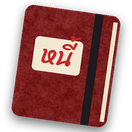
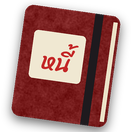
Rooms rebuild at once when a flag changes what they hold (ช่างแดง comes out as soon as the fuse is pulled); ป้าจุ๋ม shouts through the megaphone, the wedding wai with garlands, พี่หนวด's dance keeps his feet on the floor; หนี้ label no longer loses its tone mark
Claude-Session: https://claude.ai/code/session_01UHmDsbrCZjU665e7cAGfNn

Changed region(s): [[0.2121, 0.2121, 0.6667, 0.6364]]

diff --git a/tools/art/3d/char_q.py b/tools/art/3d/char_q.py
@@ -333,11 +333,17 @@ ORDER = ["pelvis", "spine_01", "spine_02", "spine_03", "neck_01", "Head",
          "thigh_l", "calf_l", "foot_l", "thigh_r", "calf_r", "foot_r"]
 FINGER_SIGN = float(os.environ.get('FSIGN', '1'))
 X, Y, Z = (1, 0, 0), (0, 1, 0), (0, 0, 1)   # model faces -Y; its left is +X
+WAI_IN = 0.45  # how far the forearms turn in for the wai (wider shoulders = more)
 RIDE_DROP = float(os.environ.get("RIDE_DROP", "-0.3"))
 ## The rider's extra animation: sitting on the bike (BoatRide).
 RIDE = (4, 8)
-## พี่หนวด dancing to the steam radio (owner: special moments get their own move).
-DANCE = (8, 8)
+## Special moments get their own move (owner 2026-10-02): extra animations per character.
+EXTRA_ANIMS = {
+    "nuad": {"dance": (8, 8)},        # พี่หนวด dancing to the steam radio
+    "jum": {"shout": (6, 8)},         # ป้าจุ๋ม waking the soi with the megaphone
+    "pa_nok": {"wai": (6, 5)},        # the wedding on the noodle boat
+    "lung_table3": {"wai": (6, 5)},
+}
 
 
 def base_pose(arm, akimbo=False, weapon=False):
@@ -397,21 +403,44 @@ def pose_frame(arm, kind, t, weapon=False, akimbo=False, hunch=False):
         rot_bone(arm, "spine_02", Z, 5 * s)
         bob = -0.022 * abs(c)
     elif kind == "dance":
-        # รำวงลูกทุ่ง: hands up turning at the wrist, hips swaying, knees bouncing
+        # รำวงลูกทุ่ง: elbows out, forearms up, wrists flicking back; the weight
+        # steps from foot to foot (one knee bends at a time), feet stay on the deck
+        ground = feet_z(arm)
         for sx, side, ph in ((1, "l", 0.0), (-1, "r", math.pi)):
             w = math.sin(2 * math.pi * t + ph)
-            aim_bone(arm, "upperarm_" + side, (sx * 0.75, -0.25, 0.35 + 0.25 * w))
-            aim_bone(arm, "lowerarm_" + side, (sx * 0.1, -0.35, 1.0))
-            aim_bone(arm, "hand_" + side, (sx * (0.6 + 0.5 * w), -0.4, 0.6))
-        rot_bone(arm, "pelvis", Y, 9 * s)
-        rot_bone(arm, "spine_02", Y, -7 * s)
-        rot_bone(arm, "Head", Y, 6 * s)
-        rot_bone(arm, "Head", X, 6)
-        knee = 14 + 10 * abs(c)
-        for side in ("l", "r"):
-            rot_bone(arm, "thigh_" + side, X, -knee * 0.6)
-            rot_bone(arm, "calf_" + side, X, knee)
-        bob = -0.03 - 0.02 * abs(c)
+            aim_bone(arm, "upperarm_" + side, (sx * 0.5, -0.3 - 0.3 * w, -0.8))
+            aim_bone(arm, "lowerarm_" + side, (sx * 0.3, -0.7 - 0.2 * w, 0.65))
+            aim_bone(arm, "hand_" + side, (sx * 0.25, 0.45, 0.85))
+        open_hands(arm)
+        rot_bone(arm, "pelvis", Y, 7 * s)
+        rot_bone(arm, "spine_02", Y, -9 * s)
+        rot_bone(arm, "spine_02", Z, 6 * s)
+        rot_bone(arm, "Head", Y, 7 * s)
+        for side, k in (("l", max(0.0, s)), ("r", max(0.0, -s))):
+            rot_bone(arm, "thigh_" + side, X, -22 * k)
+            rot_bone(arm, "calf_" + side, X, 40 * k)
+        bob = ground - feet_z(arm)
+    elif kind == "shout":
+        # ป้าจุ๋ม on top of the water tank: megaphone at her mouth, other hand on her hip,
+        # leaning back and shaking with every word
+        rot_bone(arm, "spine_02", X, 6 + 3 * abs(s))
+        rot_bone(arm, "Head", X, -8 - 4 * abs(s))
+        rot_bone(arm, "spine_03", Z, 3 * s)
+        aim_bone(arm, "upperarm_r", (-0.45, -0.6, -0.15))
+        aim_bone(arm, "lowerarm_r", (0.55, -0.35, 0.75))
+        aim_bone(arm, "hand_r", (0.4, -0.6, 0.6))
+        aim_bone(arm, "upperarm_l", (0.75, 0.2, -0.65))
+        aim_bone(arm, "lowerarm_l", (-0.55, -0.05, -0.8))
+    elif kind == "wai":
+        # the wedding: hands pressed together at the chest, bowing a little
+        b = 0.5 - 0.5 * c
+        rot_bone(arm, "spine_02", X, -4 - 6 * b)
+        rot_bone(arm, "Head", X, 6 + 6 * b)
+        for sx, side in ((1, "l"), (-1, "r")):
+            aim_bone(arm, "upperarm_" + side, (sx * 0.25, -0.3, -0.9))
+            aim_bone(arm, "lowerarm_" + side, (-sx * WAI_IN, -0.6, 0.68))
+            aim_bone(arm, "hand_" + side, (-sx * 0.05, -0.15, 1.0))
+        open_hands(arm)
     elif kind == "ride":
         # sitting astride the เรือเตอร์ไซค์: thighs forward, shins down, leaning
         # into the bars; the engine shakes the rider a little
@@ -449,6 +478,22 @@ def pose_frame(arm, kind, t, weapon=False, akimbo=False, hunch=False):
     root = arm.pose.bones["root"] if "root" in arm.pose.bones else None
     arm.location.z = bob
     return bob
+
+
+def open_hands(arm, deg=6):
+    """Flat hands (dancing, the wai) instead of base_pose's loose fists."""
+    for s_ in ("l", "r"):
+        for f in ("index", "middle", "ring", "pinky"):
+            for k in (1, 2, 3):
+                pb = arm.pose.bones["%s_0%d_%s" % (f, k, s_)]
+                pb.rotation_quaternion = Quaternion(Vector((0, 0, 1)), math.radians(FINGER_SIGN * deg))
+    bpy.context.view_layer.update()
+
+
+def feet_z(arm):
+    """Height of the lower foot (armature space), to keep feet planted."""
+    bpy.context.view_layer.update()
+    return min(arm.pose.bones[b].head.z for b in ("ball_l", "ball_r") if b in arm.pose.bones)
 
 
 def key_all(arm, frame):
@@ -504,15 +549,18 @@ NPCS = {
                         skin="#C99068", arms="short", legs="long", feet="Male_Peasant_Feet.gltf",
                         feet_tint="#3A2E26", hunch=True,
                         pal={"torso": ("#F2EEE4", 0.3, 0), "legs": ("#7A6448", 0.3, 0), "frame": ("#2A2224", 0.3, 0.4),
-                             "hanky": ("#E58FB0", 0.3, 0)}),
+                             "hanky": ("#E58FB0", 0.3, 0), "garland": ("#F4F0E6", 0.4, 0),
+                             "marigold": ("#F2A23A", 0.4, 0), "thread": ("#F8F6F0", 0.5, 0.3)}),
     "pa_nok": dict(female=True, hair=["Hair_Buns.gltf"], hair_tint="#BDB6AE", skin="#D9A57C",
                    arms="short", legs="skirt", feet="Female_Peasant_Feet.gltf", feet_tint="#2E2A30",
                    pal={"torso": ("#C0392B", 0.35, 0), "legs": ("#2E5E4E", 0.3, 0), "apron": ("#F2EEE4", 0.3, 0),
-                        "band": ("#E8B83A", 0.4, 0)}),
+                        "band": ("#E8B83A", 0.4, 0), "garland": ("#F4F0E6", 0.4, 0),
+                        "marigold": ("#F2A23A", 0.4, 0), "thread": ("#F8F6F0", 0.5, 0.3)}),
     "jum": dict(female=True, hair=["Hair_Buns.gltf"], hair_tint="#141016", skin="#E8B890",
                 arms="short", legs="skirt", feet="Female_Peasant_Feet.gltf", feet_tint="#C0392B",
                 pal={"torso": ("#F2A23A", 0.35, 0), "legs": ("#7A3A8A", 0.3, 0), "flower": ("#E8457A", 0.4, 0),
-                     "gold": ("#E2B54A", 0.6, 1.0), "phone": ("#2B2629", 0.5, 0.8), "curler": ("#7FC8E8", 0.4, 0.4)}),
+                     "gold": ("#E2B54A", 0.6, 1.0), "phone": ("#2B2629", 0.5, 0.8), "curler": ("#7FC8E8", 0.4, 0.4),
+                     "megaphone": ("#D93A2E", 0.5, 0.6), "bell": ("#F2EEE6", 0.4, 0.3)}),
     "keng": dict(female=False, hair=["Hair_SimpleParted.gltf"], hair_tint="#141016", skin="#E0AE84",
                  arms="short", legs="short", feet="Male_Peasant_Feet.gltf", feet_tint="#E8E4DC", scale=0.78,
                  pal={"torso": ("#3A6FD8", 0.4, 0), "legs": ("#2B2629", 0.3, 0), "headset": ("#1E1C22", 0.5, 0.6),
@@ -556,6 +604,16 @@ def npc_region(spec):
     return region
 
 
+def wedding_dress(B, arm, neck, hc):
+    """Thai wedding: a jasmine-and-marigold garland and the มงคลแฝด thread crown
+    (only drawn in the "wai" animation)."""
+    B.torus("Onlywai_Garland", neck + Vector((0, -0.07, -0.13)), 0.13, 0.026, "garland", "spine_03",
+            scale=(1.0, 1.3, 1.0), rot=(math.radians(-50), 0, 0), ink=0.004)
+    B.sphere("Onlywai_Tassel", neck + Vector((0, -0.17, -0.3)), 0.036, "marigold", "spine_03", ink=0.004)
+    B.torus("Onlywai_Mongkol", hc + Vector((0, 0.0, 0.05)), 0.112, 0.008, "thread", "Head",
+            scale=(1.0, 1.1, 1.0), ink=0.003)
+
+
 def npc_accessories(name, B, arm, head, top, neck, hc):
     pelvis = bone_world(arm, "pelvis")
     if NPCS[name]["legs"] == "skirt":
@@ -567,12 +625,14 @@ def npc_accessories(name, B, arm, head, top, neck, hc):
             B.box("Shade", hc + Vector((sx * 0.042, -0.122, 0.0)), (0.06, 0.012, 0.03), "shade", "Head", bevel=0.006, ink=0.003)
         B.torus("Chain", neck + Vector((0, -0.01, -0.04)), 0.075, 0.009, "gold", "spine_03", scale=(1.0, 1.0, 0.75), ink=0.0)
     elif name == "lung_table3":
+        wedding_dress(B, arm, neck, hc)
         for sx in (1, -1):
             B.torus("Glass", hc + Vector((sx * 0.042, -0.122, 0.005)), 0.026, 0.004, "frame", "Head",
                     rot=(math.radians(90), 0, 0), ink=0.0)
         B.box("Hanky", bone_world(arm, "hand_l") + Vector((0.02, -0.03, -0.06)), (0.06, 0.02, 0.09), "hanky", "hand_l", bevel=0.01)
         B.sphere("Belly", pelvis + Vector((0, -0.05, 0.2)), 0.14, "torso", "spine_01", scale=(1.0, 0.75, 0.9), ink=0.008)
     elif name == "pa_nok":
+        wedding_dress(B, arm, neck, hc)
         garment(B, BODY, "Apron", "apron", "pelvis", 0.42, 1.0, arc=140, pad=0.035, flare=0.04)
         B.torus("Band", hc + Vector((0, 0.005, 0.015)), 0.112, 0.014, "band", "Head", scale=(1.0, 1.12, 1.0), ink=0.004)
     elif name == "jum":
@@ -581,8 +641,15 @@ def npc_accessories(name, B, arm, head, top, neck, hc):
             B.cyl("Curler", hc + Vector((sx * 0.06, 0.07, 0.07)), 0.022, 0.07, "curler", "Head",
                   rot=(0, math.radians(90), 0), ink=0.004)
             B.torus("Hoop", head + Vector((sx * 0.075, 0.0, 0.06)), 0.022, 0.004, "gold", "Head", rot=(0, math.radians(90), 0), ink=0.0)
+        # พี่หนวด's debt megaphone, held at the mouth (on the head bone so it stays put)
+        mouth = hc + Vector((0, -0.12, -0.06))
+        B.cyl("Onlyshout_Mega", mouth + Vector((0, -0.12, 0)), 0.04, 0.2, "megaphone", "Head",
+              rot=(math.radians(90), 0, 0), r2=0.1, ink=0.006)
+        B.torus("Onlyshout_Bell", mouth + Vector((0, -0.22, 0)), 0.1, 0.012, "bell", "Head",
+                rot=(math.radians(90), 0, 0), ink=0.004)
+        B.cyl("Onlyshout_Grip", mouth + Vector((-0.02, -0.1, -0.08)), 0.018, 0.1, "phone", "Head", ink=0.004)
         hR = bone_world(arm, "hand_r")
-        B.box("Phone", hR + Vector((-0.06, -0.03, 0)), (0.05, 0.012, 0.1), "phone", "hand_r", bevel=0.006)
+        B.box("Notshout_Phone", hR + Vector((-0.06, -0.03, 0)), (0.05, 0.012, 0.1), "phone", "hand_r", bevel=0.006)
     elif name == "keng":
         B.torus("Headset", hc + Vector((0, 0.0, -0.005)), 0.118, 0.012, "headset", "Head", rot=(0, math.radians(90), 0),
                 scale=(1.0, 1.0, 1.15), ink=0.004)
@@ -645,6 +712,8 @@ def build(name):
             if "Boots" not in npc["feet"]:
                 trim_above(o, 0.12)
             toonify(o, npc["feet_tint"])
+        global WAI_IN
+        WAI_IN = 0.36 if npc["female"] else 0.55
         if npc.get("scale"):
             arm.scale = (npc["scale"],) * 3
             bpy.context.view_layer.update()  # accessories read bone positions
@@ -777,8 +846,7 @@ def main():
     anims = dict(ANIMS)
     if name == "rider":
         anims["ride"] = RIDE
-    if name == "nuad":
-        anims["dance"] = DANCE
+    anims.update(EXTRA_ANIMS.get(name, {}))
     only = os.environ.get("ONLY")
     if only:
         anims = {k: v for k, v in anims.items() if k in only.split(",")}
@@ -799,8 +867,15 @@ def main():
                 "BoxGaugeFace", "WHandle", "WJaw", "WHook", "WNut")
     for anim, (f0, n, fps) in ranges.items():
         for o in bpy.data.objects:
-            if o.name.split(".")[0] in off_bike:
+            base = o.name.split(".")[0]
+            if base in off_bike:
                 o.hide_render = anim == "ride"
+            elif base.startswith("Only"):
+                # "Only<anim>_..." props exist for one animation (megaphone, garland),
+                # "Not<anim>_..." ones are put away for it (the phone while shouting)
+                o.hide_render = base[4:].split("_")[0] != anim
+            elif base.startswith("Not"):
+                o.hide_render = base[3:].split("_")[0] == anim
         for d in dirs:
             arm.rotation_euler = (0, 0, yaw_for(d))
             idx = range(n) if not still else ([0] if anim in ("idle", "ride") else [0, n // 2])

diff --git a/tools/art/png/ui_2090.py b/tools/art/png/ui_2090.py
@@ -327,8 +327,9 @@ def notebook_icon(out_dir):
     # pages peeking on the right, elastic band, label
     d.rectangle((bw - 7 * SS, 6 * SS, bw - 3 * SS, bh - 6 * SS), fill=(236, 226, 200, 255))
     d.rectangle((bw - 26 * SS, 0, bw - 18 * SS, bh), fill=(30, 26, 30, 255))
-    d.rounded_rectangle((14 * SS, 30 * SS, bw - 34 * SS, 64 * SS), 4 * SS, fill=(240, 232, 210, 255))
-    text(d, ((14 + bw / SS - 34) / 2 * SS, 47 * SS), "หนี้", FONT_HAND, 26 * SS, rgba(RED_INK), "mm")
+    # tall label: Thai tone marks sit well above the letters (หนี้ lost its ้ before)
+    d.rounded_rectangle((12 * SS, 24 * SS, bw - 32 * SS, 72 * SS), 4 * SS, fill=(240, 232, 210, 255))
+    text(d, ((12 + bw / SS - 32) / 2 * SS, 62 * SS), "หนี้", FONT_HAND, 24 * SS, rgba(RED_INK), "ms")
     book = book.rotate(-8, resample=Image.BICUBIC, expand=True)
     out = shadow(book, (0, 4 * SS), 5 * SS, 0.6, 10 * SS)
     im.alpha_composite(out, ((w - out.width) // 2, (h - out.height) // 2))

diff --git a/CLAUDE.md b/CLAUDE.md
@@ -56,6 +56,11 @@
   - ท่าพิเศษ = anim เสริมในชีต: rider `ride` (นั่งขี่ 4f@8, ถอดกล่องหลัง+ประแจตอน render), nuad `dance` (รำวง 8f@8).
     `CharacterView.set_pose(anim)` ค้างท่า (loop, ชนะ walk; ตั้งก่อน _ready ได้). BoatRide ใช้ `ride` ที่ `RIDER_SEAT`,
     PatrolBot ที่ถูก distract เล่น `distract_pose` (default "dance") ถ้าตัวนั้นมี. ท่าใหม่ = เพิ่ม kind ใน `pose_frame` + ใส่ชื่อใน `LOOPING_ANIMS`
+  - ท่าพิเศษเพิ่ม (2026-10-02): jum `shout` (โทรโข่งติดกระดูก Head + มือเท้าสะเอว), pa_nok/lung_table3 `wai` (งานแต่ง: พวงมาลัย + มงคลแฝด),
+    nuad `dance` แก้ใหม่ (เจ้าของ: "เหมือนโหนบาร์ ขาลอย") = แบมือรำวง ศอกต่ำ + ย่อเข่าทีละข้าง + `feet_z()` ล็อกเท้าติดพื้น.
+    `EXTRA_ANIMS` ใน char_q.py; ของที่โผล่เฉพาะท่าตั้งชื่อ `Only<anim>_...` (ซ่อนท่าอื่น) / `Not<anim>_...` (ซ่อนเฉพาะท่านั้น).
+    render ท่าเดียว: `ONLY=<anim>` แล้ว merge `anims` เข้า sprites.json เดิม. ห้อง: npc `"poses": {flag: anim}` → `AdventureRoom._apply_poses`
+    (สดๆ ตอน flag เปลี่ยน). งานแต่ง = ลุงโต๊ะสามมี 2 entry (ที่โต๊ะสาม `if_not_flag ally_nok` / ข้างป้านก `if_flag ally_nok`)
   - ขนาด: `CharacterView.SIZE = 0.84` (เดิมคนสูงกว่าประตู); ป้ายชื่อ NPC -222, เครื่องหมายหุ่น (! ? ~เต้น~) -300
   - render: `pip install bpy==4.2.0` + `python3 tools/art/3d/fetch_quaternius.py <QDIR>` (โหลดชุดฟรีจาก itch.io) แล้ว
     `QDIR=<QDIR> python3 char_q.py <name> <out>` + `pack.py <out>` (~2 นาที/ตัว, segfault ตอนปิด bpy ไม่เป็นไร)
@@ -207,6 +212,12 @@ tools/                   dev_setup.ps1, run.ps1 (เล่นบน PC), update.
   ฟอนต์: **Sriracha** = ลายมือ, **Mali SemiBold** = ตัวเขียนป้าย (OFL ทั้งคู่, `assets/fonts/OFL-*.txt`), Kanit = เนื้อความยาว.
   `UiKit.juice()` = ยุบตอนกด เด้งตอนปล่อย. ยังไม่ได้ขัด: แถบกระเป๋า, กล่อง dialog, หน้าแรก (ใช้ป้าย/กระดาษแล้วแต่ยังไม่มีฉากหลัง)
 - `internationalization/locale/include_text_server_data=true` (ตัดคำไทยบน APK ต้องใช้ข้อมูล ICU)
+- **ห้องอัปเดตทันทีเมื่อ flag เปลี่ยน (2026-10-02, เจ้าของ: "ช่างแดงไม่ออกมาจากเรือ ทั้งที่ดึงฟิวส์แล้ว — ออกมาหลังไปที่อื่น")**:
+  เดิมห้องสร้างครั้งเดียวตอนเข้า → อะไรที่ `if_flag`/`if_not_flag`/`if_flags` ผูกกับ flag ที่ตั้งในห้องเดียวกันไม่โผล่/ไม่หาย
+  (ช่างแดง, ทางเข้าสถานีหลังหมุนประตูน้ำ, งานแต่ง). ตอนนี้ `AdventureRoom._on_flag` → ถ้า flag อยู่ใน `Rooms.condition_flags(room)` →
+  `Main.refresh_room()` (รอ dialog จบก่อน) → โหลดห้องใหม่ไม่ fade ที่ spawn `"keep"` (ไรเดอร์อยู่ที่เดิม; `GameState.spawn` ไม่เปลี่ยน
+  เซฟยังโหลดที่ประตูจริง). การรอน้ำ (ม้านั่ง) ก็ใช้ทางนี้. test `test_room_updates_when_a_flag_changes_while_inside`
+- ข้อความไทยที่วาดลง PNG (PIL) ต้องเผื่อที่ด้านบนให้วรรณยุกต์ — ป้าย "หนี้" บนไอคอนสมุดเคยเหลือ "หนี" (ใช้ anchor "ms" + กรอบสูง)
 - **PatrolBot** (A0): ไล่ถ้า `chases` (ไม่มีเงื่อนไขถือของแล้ว), จับได้ = `catch_dialog` + ผลัก, `distract_flag`/`distract_dir`/`distract_mark`
   = หยุดถาวรเมื่อ flag ถูกตั้ง (เช็คตอน `_ready` + `GameState.flag_changed`)
 - Gotcha: script ที่รันด้วย `godot -s` (shot/tool) ห้ามอ้าง class ที่อ้าง autoload ตอน compile (เช่น `Rooms` → `GameState` → `Puzzles`)
@@ -282,5 +293,5 @@ GODOT=$S/Godot_v4.4.1-stable_linux.x86_64 bash tools/run_tests.sh
 ## สถานะ / ยังไม่ได้ทำ
 - **A0–A4 เสร็จ (2026-10-02)**: เกมเล่นจบได้ 3 บท 8 ห้อง ตอนจบ 4 แบบ, plot ย่อย 3 สาย (ลุงโต๊ะสาม×ป้านก → งานแต่ง, ลอตเตอรี่ป้าจุ๋ม, หุ่นเก้า), 66 tests
 - UI: เมนูในเกม + การ์ด + ตัวเลือก + ปุ่มหน้าแรก ขัดแล้ว (2026-10-02); เหลือแถบกระเป๋า, กล่อง dialog, ฉากหลังหน้าแรก
-- ยังไม่มี: เสียง; ท่าพิเศษอื่น (ป้าจุ๋มตะโกนโทรโข่ง, งานแต่ง, ตอนจบ)
+- ยังไม่มี: เสียง; ท่าพิเศษตอนจบ
 - ลบ save บนแท็บเล็ต = `adb shell run-as com.drums55.game25d rm files/save_0.json`
